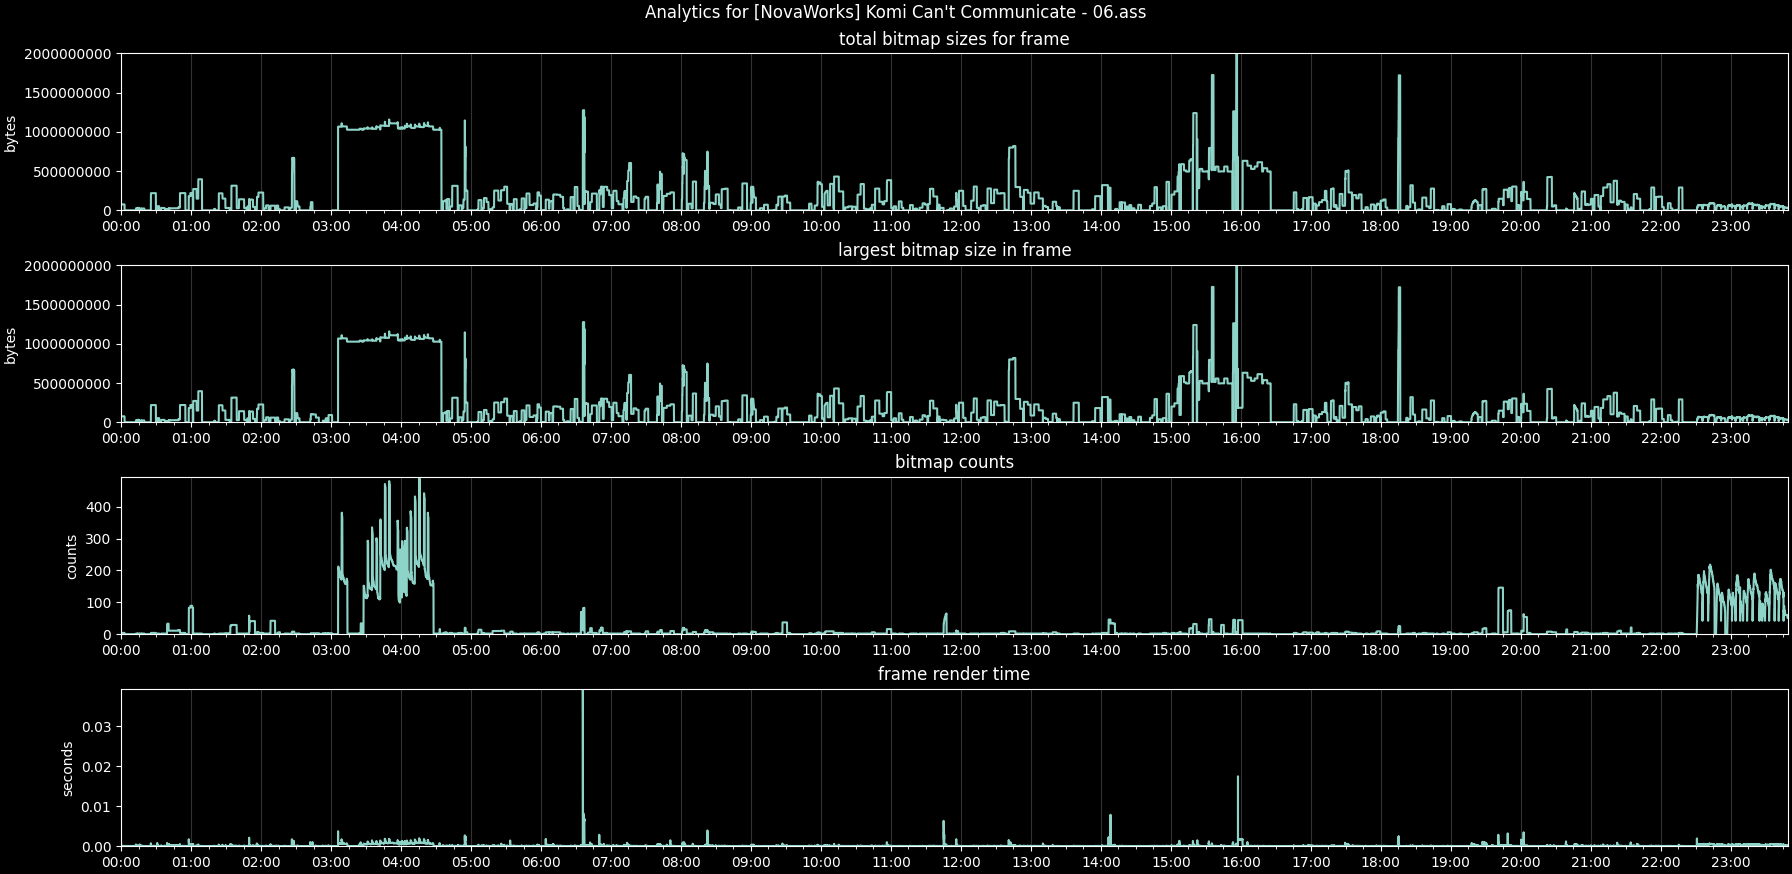
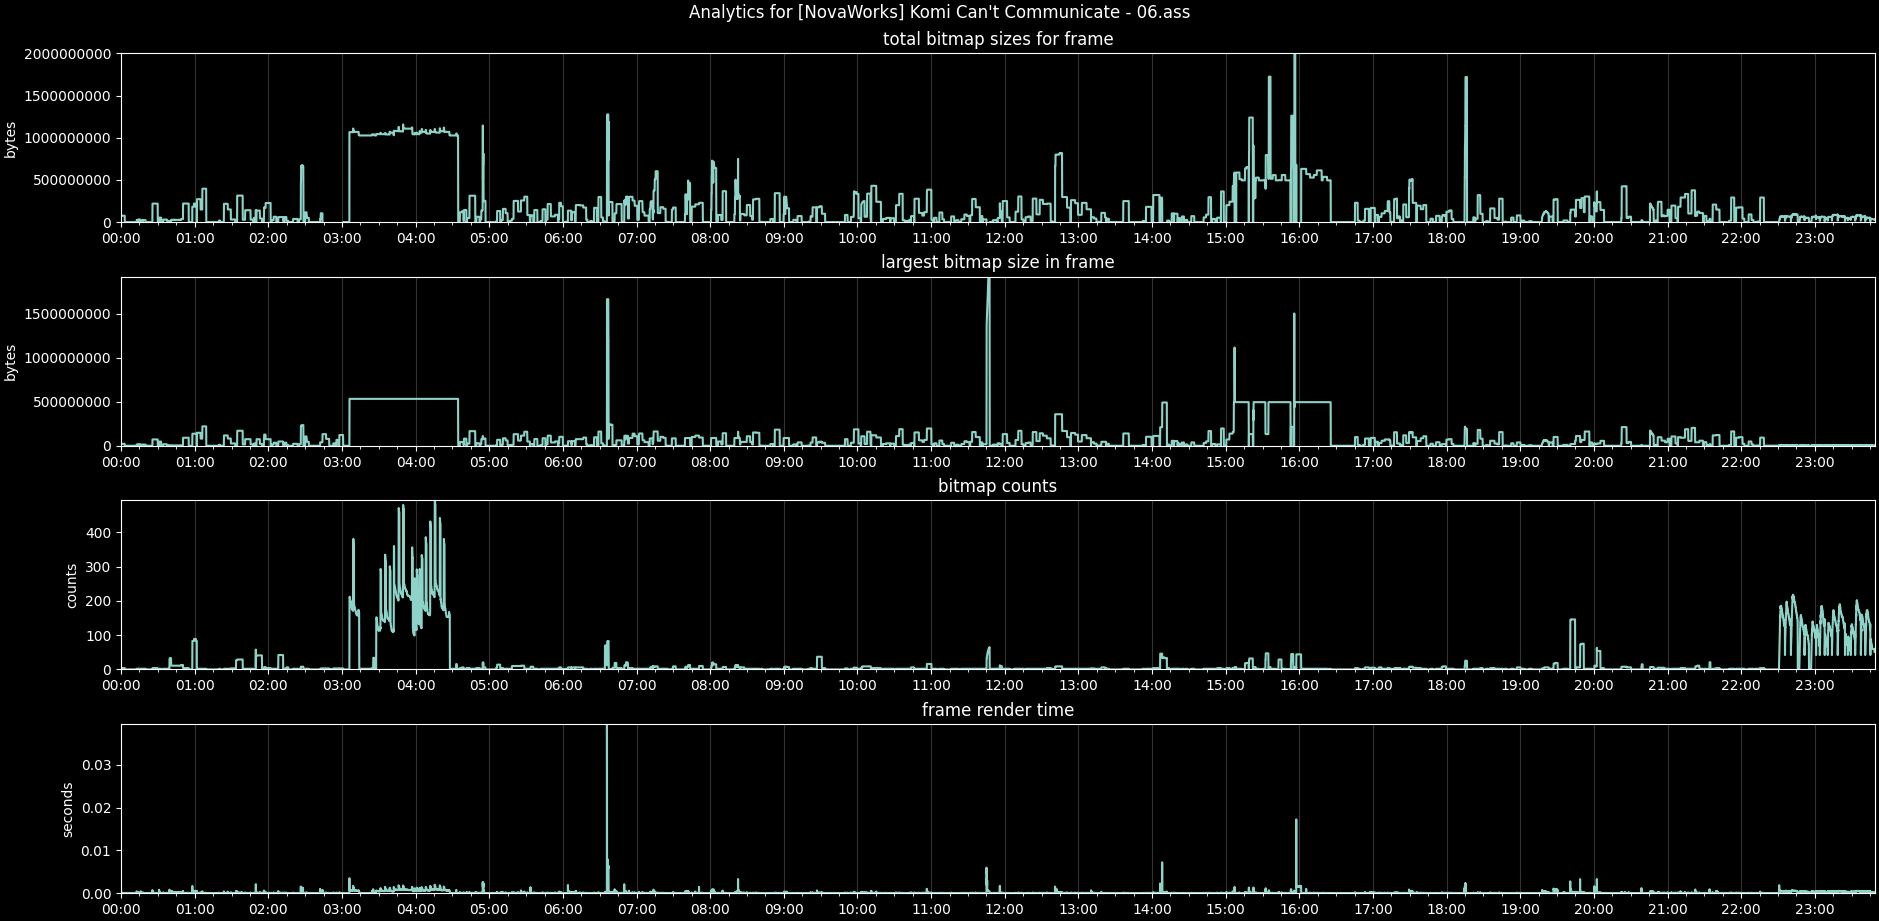
fixed mistake in stat gathering

diff --git a/assytics/libass_profiler.c b/assytics/libass_profiler.c
@@ -61,7 +61,7 @@ int main(int argc, char *argv[]) {
     while(my_ass_images != NULL){
       int image_size = my_ass_images->stride*(my_ass_images->h-1)*my_ass_images->w;
       frame_total_image_size += image_size;
-      frame_largest_image_size = frame_total_image_size > image_size ? frame_total_image_size : image_size;
+      frame_largest_image_size = frame_largest_image_size > image_size ? frame_largest_image_size : image_size;
       frame_image_count++;
       my_ass_images = my_ass_images->next;
     }
